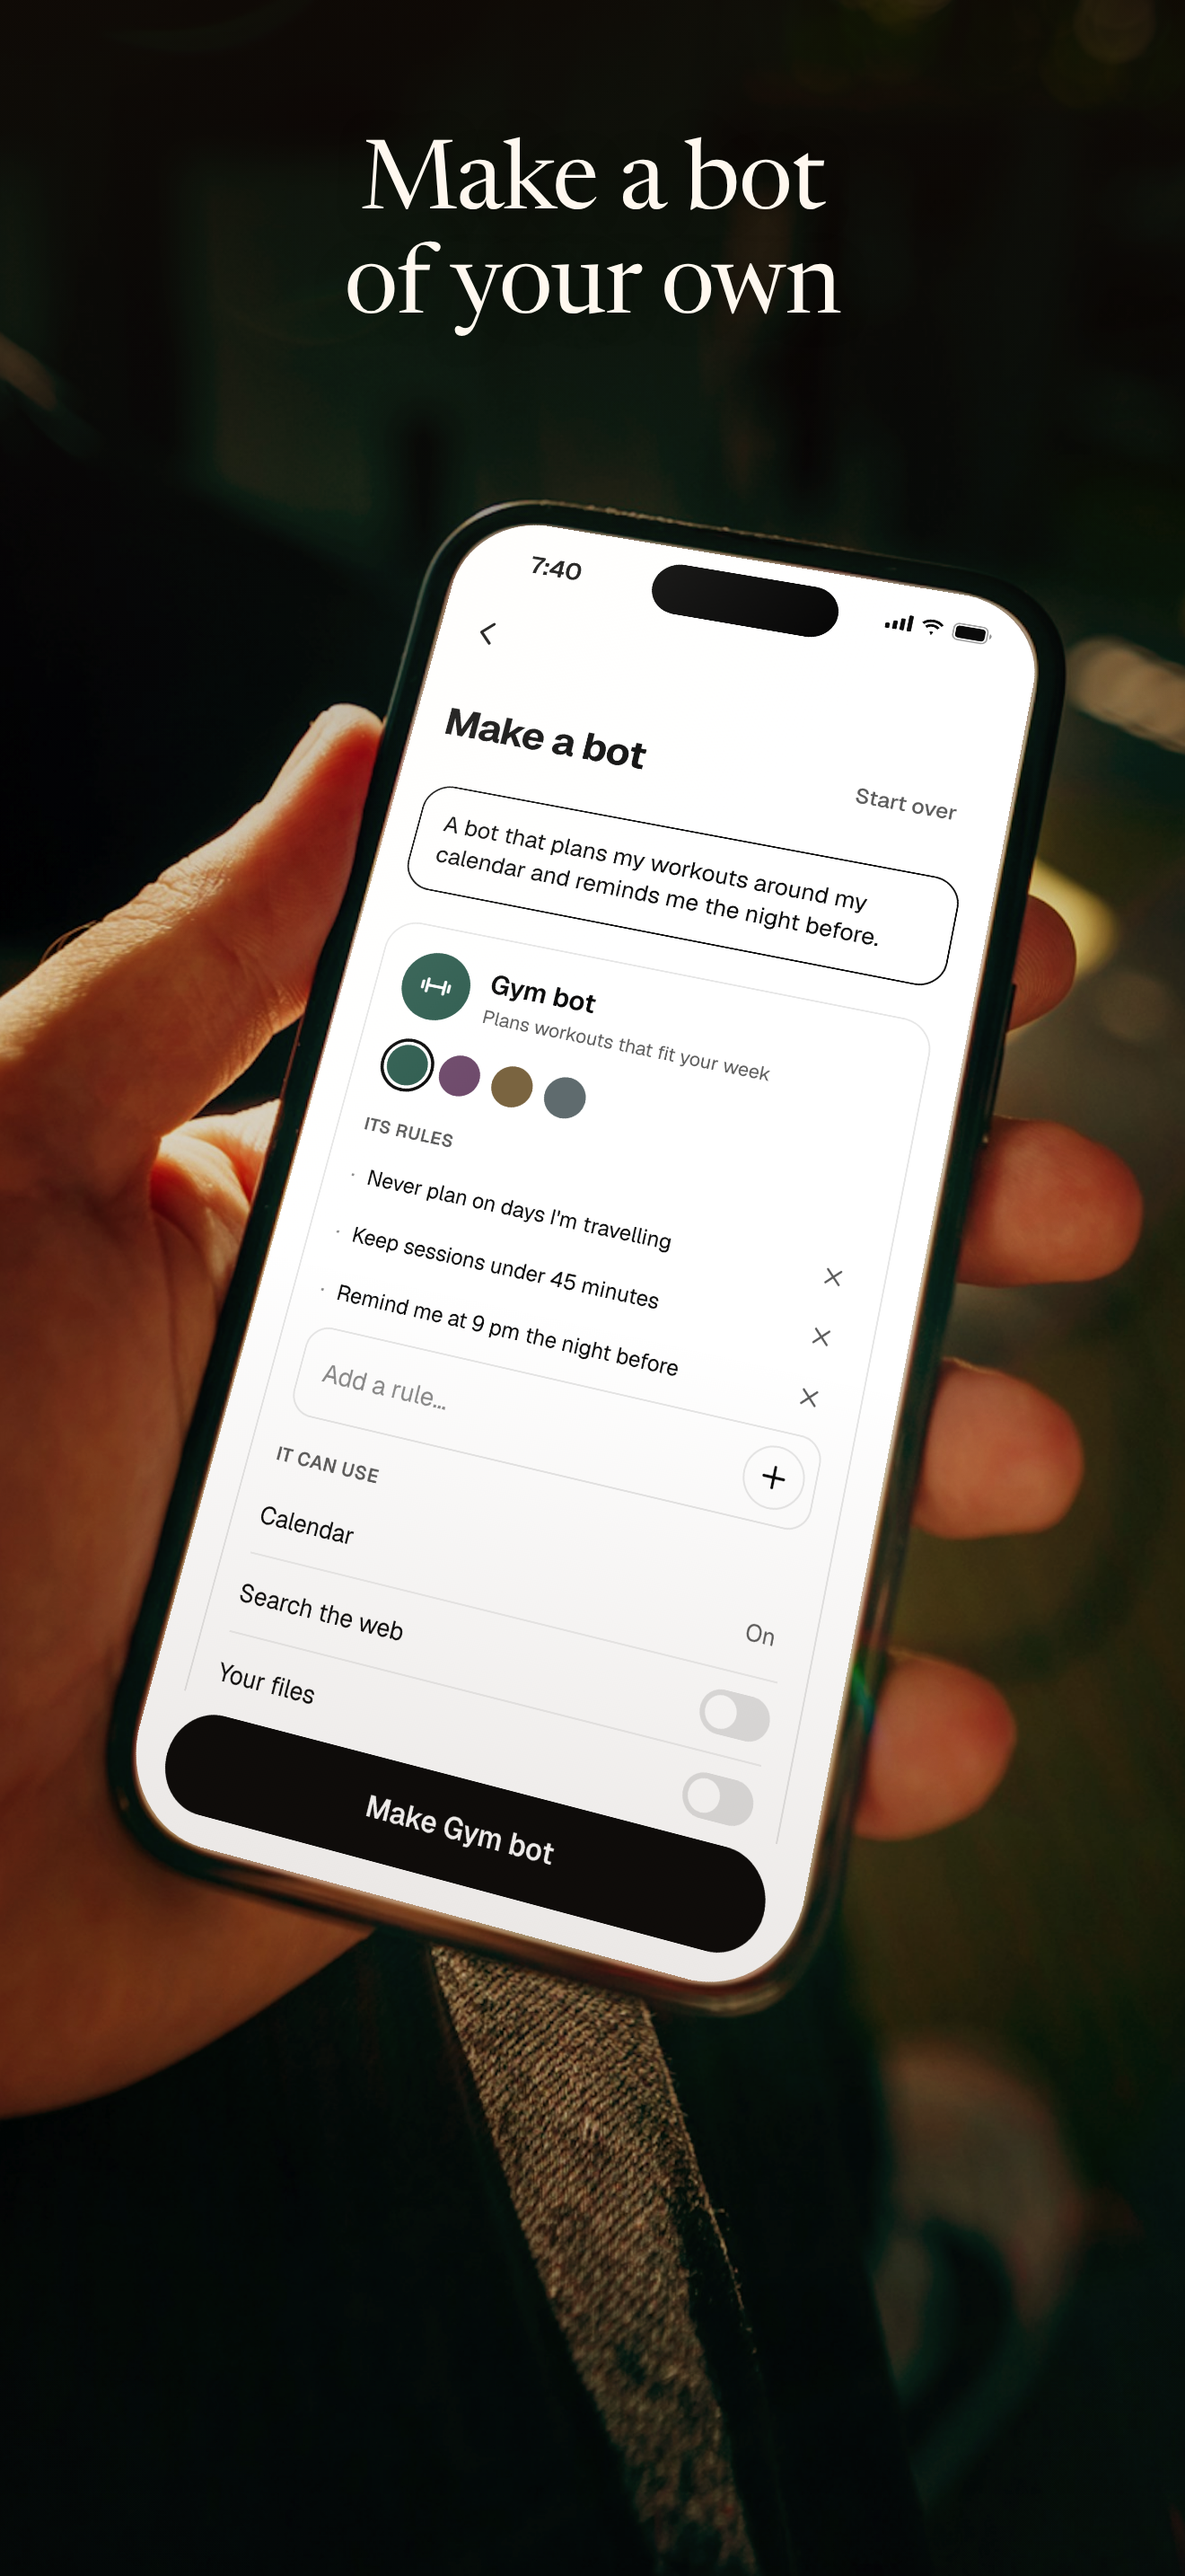
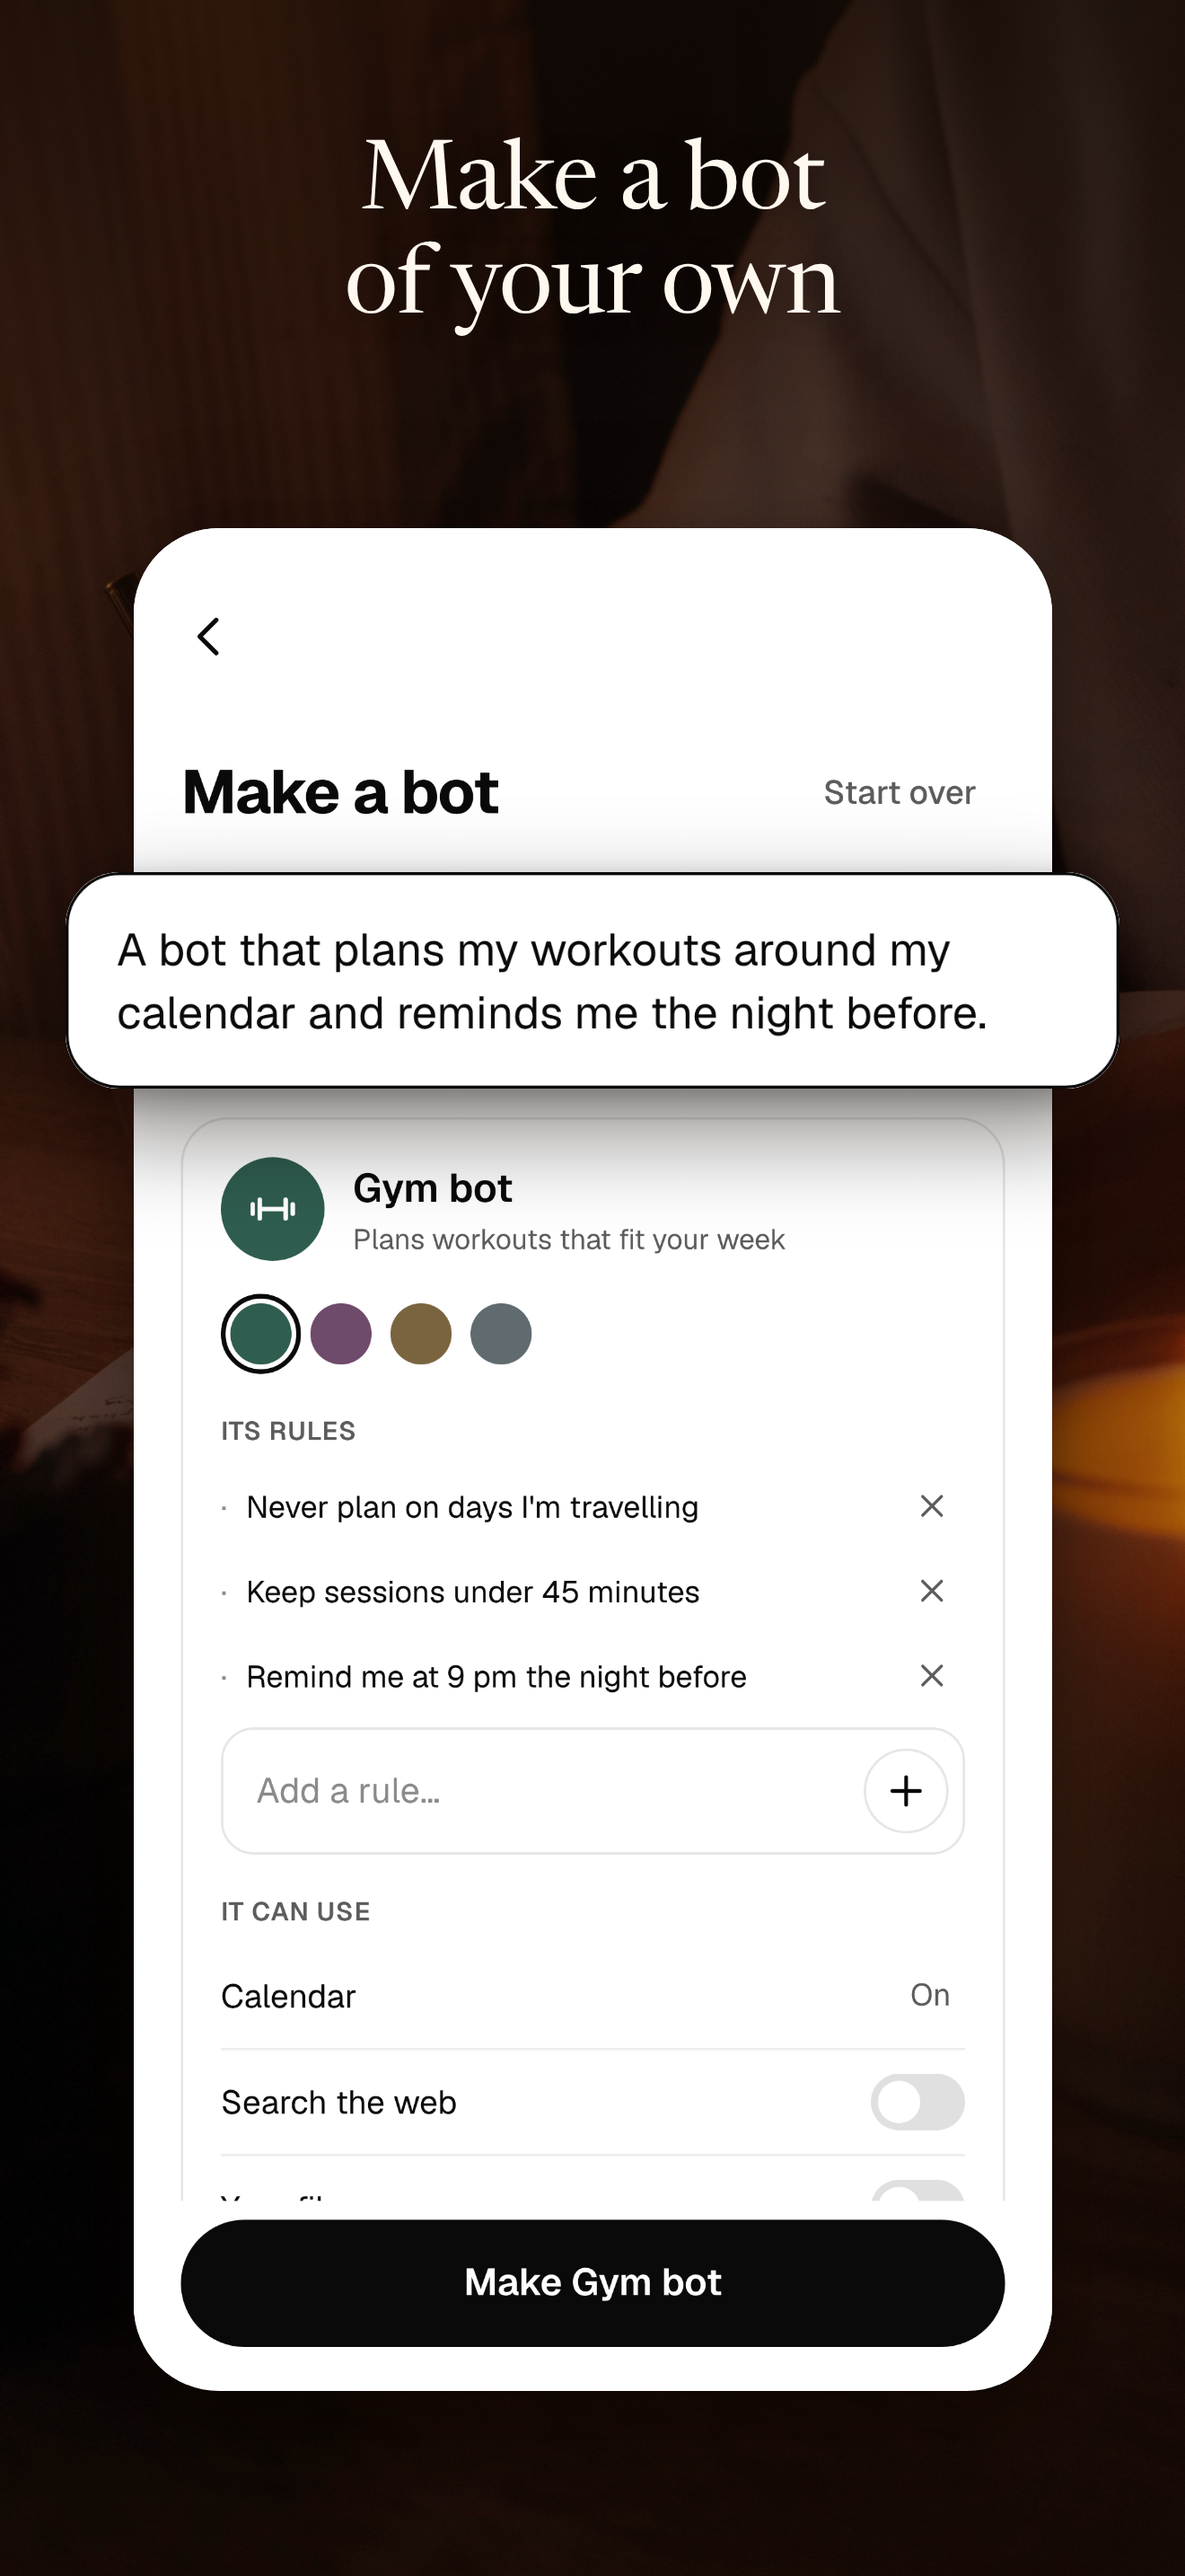
Store images: Keybot's frame with the Peek-a-bot key, Make a bot like the rest
Claude-Session: https://claude.ai/code/session_01CKXThut45G6LdJrwkZxxo9

diff --git a/tools/media/store/peekbot.js b/tools/media/store/peekbot.js
@@ -1,0 +1,160 @@
+// THE PEEK-A-BOT MIC KEY, for the Keybot frame: the keyboard's real mic key, drawn by the reference drawing code the iOS
+// and Android keys are ported from (app/targets/keyboard/PeekBotView.swift, app/modules/tulmi-keyboard/android/TulmiPeekBot.kt).
+// Everything between the two "verbatim" lines is copied unchanged from that reference (the Peek-a-bot design page); only the
+// still-frame helper at the end is ours. Units: the key's radius is 1, centre (0, 0), y down.
+//
+//   PeekBot.still(canvas, { mode: "listen" | "idle" (peeking) | "think" | "done", level, seconds })
+//   draws one held moment of the key, filling the canvas.
+(() => {
+  "use strict";
+  // ---- verbatim from the reference: begin
+  // ---- The bot. Units: the key's radius is 1, centre (0, 0), y down.
+  const C = {
+    shellTop: "#FBF0DE", shellBottom: "#E9D0A8", body: "#E2C59A", visor: "#1d1c1b", glow: "#FFF1D6",
+    clay: "#C9683F", porthole: "#2e2b28",
+    hidden: 1.62, peek: 0.86, up: 0.1,          // head centre y when away, peeking, up
+    headW: 1.12, headH: 0.86, headR: 0.32, visorW: 0.84, visorH: 0.46, visorR: 0.2, visorY: -0.05,
+    eyeX: 0.19, eyeW: 0.12, eyeH: 0.19, stalk: 0.22, ball: 0.075, earR: 0.1, pawR: 0.1, pawX: 0.5,
+  };
+  const S = (x = 0) => ({ x, v: 0 });
+  // Damped spring: rate in rad/s, damp = damping ratio (1 critical). The same in the native ports.
+  function spring(s, to, dt, rate, damp) { s.v += ((to - s.x) * rate * rate - 2 * damp * rate * s.v) * dt; s.x += s.v * dt; return s.x; }
+  const clamp = (v, a = 0, b = 1) => Math.max(a, Math.min(b, v));
+
+  function makeBot() {
+    return {
+      y: S(C.hidden), tilt: S(0), lookX: S(0), lookY: S(0), ant: S(0), ear: S(0), glow: S(0), think: S(0), happy: S(0), paws: S(0),
+      blinkIn: 2, blink: 1, peekIn: 1.2, peekLeft: 0, lastMode: "idle", doneAt: 0, time: 0, sparkle: 0,
+      // input: { mode: "idle" | "listen" | "think" | "done", level: 0..1, typing: bool }
+      update(dt, inp) {
+        const b = this; b.time += dt;
+        if (inp.mode !== b.lastMode) {
+          if (inp.mode === "listen" && b.lastMode === "idle") b.ant.v += 9;      // the pop flicks the antenna
+          if (inp.mode === "done") { b.doneAt = b.time; b.sparkle = 1; b.ant.v -= 6; }
+          b.lastMode = inp.mode;
+        }
+        // Peeks: idle only, at random, never while typing.
+        if (inp.mode === "idle") {
+          if (b.peekLeft > 0) b.peekLeft -= dt;
+          else if ((b.peekIn -= dt) <= 0 && !inp.typing) { b.peekLeft = 1.8 + Math.random() * 1.4; b.peekIn = 4 + Math.random() * 5; }
+          if (inp.typing) b.peekLeft = Math.min(b.peekLeft, 0.15);
+        } else b.peekLeft = 0;
+        const peeking = inp.mode === "idle" && b.peekLeft > 0;
+        const sinceDone = b.time - b.doneAt;
+        const yTo = inp.mode === "listen" || inp.mode === "think" ? C.up
+          : inp.mode === "done" ? (sinceDone < 1.1 ? C.up - (sinceDone < 0.25 ? 0.12 : 0) : C.hidden)
+          : peeking ? C.peek : C.hidden;
+        const pop = yTo < b.y.x;                                           // going up: a quick bouncy pop
+        spring(b.y, yTo, dt, pop ? 15 : 9, pop ? 0.42 : 0.8);
+        // Look: around while peeking, up-left at the text box while listening, up while thinking.
+        const lt = b.time;
+        const look = peeking ? [Math.sin(lt * 1.7) * 0.07, -0.02] : inp.mode === "listen" ? [-0.05, -0.04]
+          : inp.mode === "think" ? [0.05 * Math.cos(lt * 5), -0.05] : [0, 0];
+        spring(b.lookX, look[0], dt, 14, 0.7); spring(b.lookY, look[1], dt, 14, 0.7);
+        spring(b.tilt, inp.mode === "listen" ? -0.1 + inp.level * 0.05 : inp.mode === "think" ? 0.06 * Math.sin(lt * 3) : 0, dt, 9, 0.5);
+        spring(b.ear, inp.mode === "listen" ? inp.level : 0, dt, 26, 0.6);
+        spring(b.glow, inp.mode === "listen" ? 0.35 + inp.level * 0.65 : inp.mode === "think" ? 0.5 + 0.3 * Math.sin(lt * 8) : 0, dt, 22, 0.8);
+        spring(b.think, inp.mode === "think" ? 1 : 0, dt, 18, 1);
+        spring(b.happy, inp.mode === "done" && sinceDone < 1.3 ? 1 : 0, dt, 20, 1);
+        spring(b.paws, peeking ? 1 : 0, dt, 16, 0.9);
+        // Antenna: a pendulum hung on the head; the head's vertical speed and tilt drive it.
+        spring(b.ant, -b.tilt.x * 1.5 + (inp.mode === "listen" ? Math.sin(lt * 9) * 0.12 * inp.level : 0), dt, 13, 0.18);
+        b.ant.v += -b.y.v * 0.6 * dt * 10 * Math.sign(b.ant.x || 0.01) * 0.2;
+        b.sparkle = Math.max(0, b.sparkle - dt * 1.1);
+        // Blink every few seconds (not while happy).
+        b.blinkIn -= dt;
+        if (b.blinkIn <= 0) { b.blinkIn = 2.2 + Math.random() * 2.8; b.blinkT = 0.16; }
+        if (b.blinkT > 0) { b.blinkT -= dt; b.blink = Math.abs(Math.cos((1 - b.blinkT / 0.16) * Math.PI)); } else b.blink = 1;
+        b.level = inp.level;
+      },
+
+      draw(c, R) {
+        const b = this, u = (v) => v * R;
+        // Window
+        c.save(); c.beginPath(); c.arc(0, 0, R, 0, 6.2832); c.clip();
+        c.fillStyle = C.porthole; c.fillRect(-R, -R, 2 * R, 2 * R);
+        const hy = b.y.x, vy = b.y.v;
+        // Squash and stretch from vertical speed; a landing squashes.
+        const st = clamp(-vy * 0.035, -0.14, 0.2), sy = 1 + st, sx = 1 - st * 0.55;
+        c.save(); c.translate(0, u(hy)); c.rotate(b.tilt.x); c.scale(sx, sy);
+        // Body: down out of the window
+        c.fillStyle = C.body; rr(c, -u(0.34), u(0.3), u(0.68), u(1.4), u(0.2)); c.fill();
+        // Ears (behind the shell), pulse with the voice
+        const er = C.earR + 0.05 * b.ear.x;
+        c.fillStyle = C.clay; disc(c, -u(C.headW / 2), u(-0.02), u(er)); disc(c, u(C.headW / 2), u(-0.02), u(er));
+        // Antenna: stalk from the top of the shell, swinging with `ant`
+        const ax = Math.sin(b.ant.x) * C.stalk, ay = -C.headH / 2 - Math.cos(b.ant.x) * C.stalk;
+        c.strokeStyle = C.shellBottom; c.lineWidth = u(0.05); c.lineCap = "round";
+        c.beginPath(); c.moveTo(0, u(-C.headH / 2 + 0.02)); c.quadraticCurveTo(u(ax * 0.2), u(ay + 0.1), u(ax), u(ay)); c.stroke();
+        if (b.glow.x > 0.02) { c.fillStyle = C.clay; c.globalAlpha = 0.3 * clamp(b.glow.x); disc(c, u(ax), u(ay), u(C.ball + 0.15 * b.glow.x)); c.globalAlpha = 1; }
+        c.fillStyle = C.clay; disc(c, u(ax), u(ay), u(C.ball));
+        // Shell: soft cream, lighter on top
+        const g = c.createLinearGradient(0, u(-C.headH / 2), 0, u(C.headH / 2));
+        g.addColorStop(0, C.shellTop); g.addColorStop(1, C.shellBottom);
+        c.fillStyle = g; rr(c, -u(C.headW / 2), -u(C.headH / 2), u(C.headW), u(C.headH), u(C.headR)); c.fill();
+        // Shine on the shell
+        c.fillStyle = "rgba(255,255,255,0.55)"; rr(c, -u(0.4), -u(0.38), u(0.26), u(0.07), u(0.035)); c.fill();
+        // Visor
+        c.fillStyle = C.visor; rr(c, -u(C.visorW / 2), u(C.visorY - C.visorH / 2), u(C.visorW), u(C.visorH), u(C.visorR)); c.fill();
+        // Face on the visor
+        const fx = b.lookX.x, fy = C.visorY + b.lookY.x, th = clamp(b.think.x), hp = clamp(b.happy.x);
+        c.fillStyle = C.glow; c.strokeStyle = C.glow; c.shadowColor = "rgba(255,230,190,0.9)"; c.shadowBlur = u(0.12);
+        if (hp > 0.5) {               // ^ ^
+          c.lineWidth = u(0.06); c.lineCap = "round";
+          [-1, 1].forEach((s) => { c.beginPath(); c.arc(u(s * C.eyeX + fx), u(fy + 0.04), u(0.075), Math.PI * 1.15, Math.PI * 1.85); c.stroke(); });
+        } else if (th > 0.5) {        // thinking: three dots, bouncing in turn
+          for (let i = 0; i < 3; i++) {
+            const bounce = Math.max(0, Math.sin(b.time * 7 - i * 0.9)) * 0.06;
+            disc(c, u((i - 1) * 0.15 + fx * 0.5), u(fy - bounce), u(0.045));
+          }
+        } else {                      // eyes: glowing pills that blink
+          const eh = C.eyeH * b.blink * (1 + 0.15 * b.ear.x);
+          [-1, 1].forEach((s) => { rr(c, u(s * C.eyeX + fx - C.eyeW / 2), u(fy - eh / 2), u(C.eyeW), u(Math.max(0.02, eh)), u(C.eyeW / 2)); c.fill(); });
+          if (b.lastMode === "listen") {   // a little mouth that opens with the voice
+            const mw = 0.08 + 0.06 * b.level, mh = 0.025 + 0.07 * b.level;
+            rr(c, u(fx - mw / 2), u(fy + 0.15 - mh / 2), u(mw), u(mh), u(Math.min(mw, mh) / 2)); c.fill();
+          }
+        }
+        c.shadowBlur = 0;
+        c.restore();
+        // Paws on the rim while peeking
+        if (b.paws.x > 0.02) {
+          c.fillStyle = C.shellTop;
+          [-1, 1].forEach((s) => { const py = 0.93 - 0.1 * clamp(b.paws.x); disc(c, u(s * C.pawX), u(py), u(C.pawR)); });
+        }
+        // Sparkle when the words land
+        if (b.sparkle > 0) {
+          c.save(); c.translate(u(0.55), u(-0.5)); c.rotate((1 - b.sparkle) * 1.5); c.globalAlpha = Math.min(1, b.sparkle * 2);
+          const k = u(0.14 * (0.6 + 0.4 * Math.sin(b.sparkle * Math.PI)));
+          c.fillStyle = C.glow; c.beginPath();
+          for (let i = 0; i < 8; i++) { const a = (i * Math.PI) / 4, r = i % 2 ? k * 0.32 : k; c.lineTo(Math.cos(a) * r, Math.sin(a) * r); }
+          c.closePath(); c.fill(); c.restore();
+        }
+        // The rim: a soft inner shadow so the bot sits inside, and a glint on the glass
+        const rim = c.createRadialGradient(0, 0, u(0.72), 0, 0, R);
+        rim.addColorStop(0, "rgba(0,0,0,0)"); rim.addColorStop(1, "rgba(0,0,0,0.42)");
+        c.fillStyle = rim; c.fillRect(-R, -R, 2 * R, 2 * R);
+        c.restore();
+        c.strokeStyle = "rgba(255,255,255,0.16)"; c.lineWidth = u(0.05); c.lineCap = "round";
+        c.beginPath(); c.arc(0, 0, u(0.86), Math.PI * 1.08, Math.PI * 1.38); c.stroke();
+      },
+    };
+  }
+  function rr(c, x, y, w, h, r) { r = Math.max(0, Math.min(r, w / 2, h / 2)); c.beginPath(); c.moveTo(x + r, y); c.arcTo(x + w, y, x + w, y + h, r);
+    c.arcTo(x + w, y + h, x, y + h, r); c.arcTo(x, y + h, x, y, r); c.arcTo(x, y, x + w, y, r); c.closePath(); }
+  function disc(c, x, y, r) { c.beginPath(); c.arc(x, y, Math.max(0, r), 0, 6.2832); c.fill(); }
+  // ---- verbatim from the reference: end
+
+  /** One held moment: the bot run for `seconds` in `mode` (fixed steps, no randomness left in the pose), drawn at the canvas's size. */
+  function still(canvas, o = {}) {
+    const mode = o.mode ?? "listen", level = o.level ?? 0.6, steps = Math.round((o.seconds ?? 1.9) / 0.016);
+    const bot = makeBot();
+    bot.peekIn = 99; bot.blinkIn = 99;
+    if (mode === "idle") bot.peekLeft = 99;
+    for (let k = 0; k < steps; k++) bot.update(0.016, { mode, level, typing: false });
+    const ctx = canvas.getContext("2d"), size = canvas.width;
+    ctx.setTransform(1, 0, 0, 1, 0, 0); ctx.clearRect(0, 0, size, size); ctx.setTransform(1, 0, 0, 1, size / 2, size / 2);
+    bot.draw(ctx, size / 2 - 1);
+  }
+  window.PeekBot = { still, makeBot, C };
+})();

diff --git a/tools/media/store/photos/CREDITS.md b/tools/media/store/photos/CREDITS.md
@@ -8,20 +8,20 @@ All from Unsplash, under the [Unsplash License](https://unsplash.com/license): f
 credit required (credit is given here anyway); not to be sold as unaltered copies or used to build a similar photo service.
 Unsplash gives no model or property releases, so the photos were chosen with no identifiable face: hands, a figure from
 behind or in silhouette, a face hidden by leaves. No brand logo or other app is on show in a frame (a laptop's or a phone's
-own screen is behind a card, or replaced by X0 Bot's). Downloaded from images.unsplash.com at the size noted; graded in
+own screen is behind a card or turned away). Downloaded from images.unsplash.com at the size noted; graded in
 build.mjs (cropping, light, a warm cast, vignette, grain), never retouched.
 
 | File | Frame | Photo | Photographer | Unsplash image id |
 | --- | --- | --- | --- | --- |
 | team.jpg | Players that make your life easy (and the feature graphic) | [Person using smartphone on a black sofa between green plants](https://unsplash.com/photos/pq8YByqaheY) | Viktor Talashuk | photo-1544178641-77a5a12822d8 |
-| keybot.jpg | Say it, and Keybot writes it | [Man silhouetted against warm glowing windows at night](https://unsplash.com/photos/oDhMOVD7Jvk) | Kevin Grieve | photo-1768564138843-74dccc5b9d84 |
+| keybot.jpg | Say it, and Keybot writes it | [A person holding a cell phone in their hand](https://unsplash.com/photos/CNkkHiL61sk) | Jaykumar Bherwani | photo-1722983049539-1c17acf7abb4 |
 | connect.jpg | Works with the apps you already use (blurred) | [A man sitting on a couch using a laptop](https://unsplash.com/photos/GLwp8InyT8Q) | Redd Francisco | photo-1702865054672-56dd4a9e68e2 |
 | plan.jpg | Your day, planned for you | [A person holding a cup of tea on a wooden table](https://unsplash.com/photos/_w_9J1qJD9E) | Harshit Mahabale | photo-1633069683078-b180ba2afd89 |
 | notes.jpg | Every meeting, written up | [A person's hands typing on a laptop](https://unsplash.com/photos/dSJwwAQZzDs) | Mohit Sharma | photo-1782462238918-a8926180df95 |
 | travel.jpg | Your trips, all sorted | [Sunset view from a train window](https://unsplash.com/photos/g5xOdiDkbns) | Dev Jain | photo-1672728910757-4806a041baee |
 | code.jpg | Ship code by asking | [Nighttime desk setup with laptop, lamp and city view](https://unsplash.com/photos/odyglVvZv18) | Avtar Singh | photo-1779444480590-9bf6f021d5d4 |
 | spaces.jpg | Your people, in sync | [Two people holding cups of tea](https://unsplash.com/photos/2QiB2kwIIAU) (Mumbai) | Harsh Kondekar | photo-1680413002471-965cca788f5b |
-| make.jpg | Make a bot of your own (X0 Bot's screen laid onto the phone) | [Person holding a blank-screen smartphone indoors](https://unsplash.com/photos/08TJqR3mSrE) | Jakub Żerdzicki | photo-1764831138635-35873bdd671e |
+| make.jpg | Make a bot of your own | [A person writing in a notebook next to a lit candle](https://unsplash.com/photos/SgsYqDtAzPI) | Daria Glakteeva | photo-1701634441311-e624c7fdfedf |
 
 ## App marks (the `tiles` frame only)
 
@@ -43,6 +43,11 @@ and to-dos).
 | youtube.svg | YouTube | #FF0000 |
 | googlesheets.svg | Google Sheets | #34A853 |
 | telegram.svg | Telegram | #26A5E4 |
+
+## The mic key (Keybot frame)
+
+X0 Bot's own art: the keyboard's Peek-a-bot mic key, drawn by `../peekbot.js`, a verbatim copy of the reference drawing
+code the iOS and Android keys are ported from, held in one moment (listening) and rendered at 600 px.
 
 ## Typefaces (fonts/)
 

diff --git a/docs/store-listing.md b/docs/store-listing.md
@@ -385,14 +385,14 @@ lifted out. The photos are from Unsplash, free for commercial use, with no ident
 | # | Frame | Headline | What it shows |
 | --- | --- | --- | --- |
 | 1 | team | Players that make your life easy | Home, with the bots' tiles lifted out (the team) |
-| 2 | keybot | Say it, and Keybot writes it | The photo alone, and a round sound mark |
+| 2 | keybot | Say it, and Keybot writes it | Hands on a phone, and the keyboard's own Peek-a-bot mic key, listening |
 | 3 | connect | Works with the apps you already use | The marks of apps X0 Bot connects to, on white tiles |
 | 4 | plan | Your day, planned for you | Plan bot, with tomorrow's evening lifted out: when to leave, the dentist, dinner |
 | 5 | notes | Every meeting, written up | A meeting's write-up, with its to-dos lifted out |
 | 6 | travel | Your trips, all sorted | Travel bot, with the two stays lifted out |
 | 7 | code | Ship code by asking | Code bot, with its question lifted out (App Store only) |
 | 8 | spaces | Your people, in sync | A family space, with a task from Mom lifted out |
-| 9 | make | Make a bot of your own | Make a bot, on a phone held in a hand |
+| 9 | make | Make a bot of your own | Make a bot, with the one sentence it was made from lifted out |
 
 The App Store gets all nine (it takes up to ten). Google Play takes eight, so its set leaves out Code bot (frame 7): the
 most specialist of the bots for a phone audience. The
